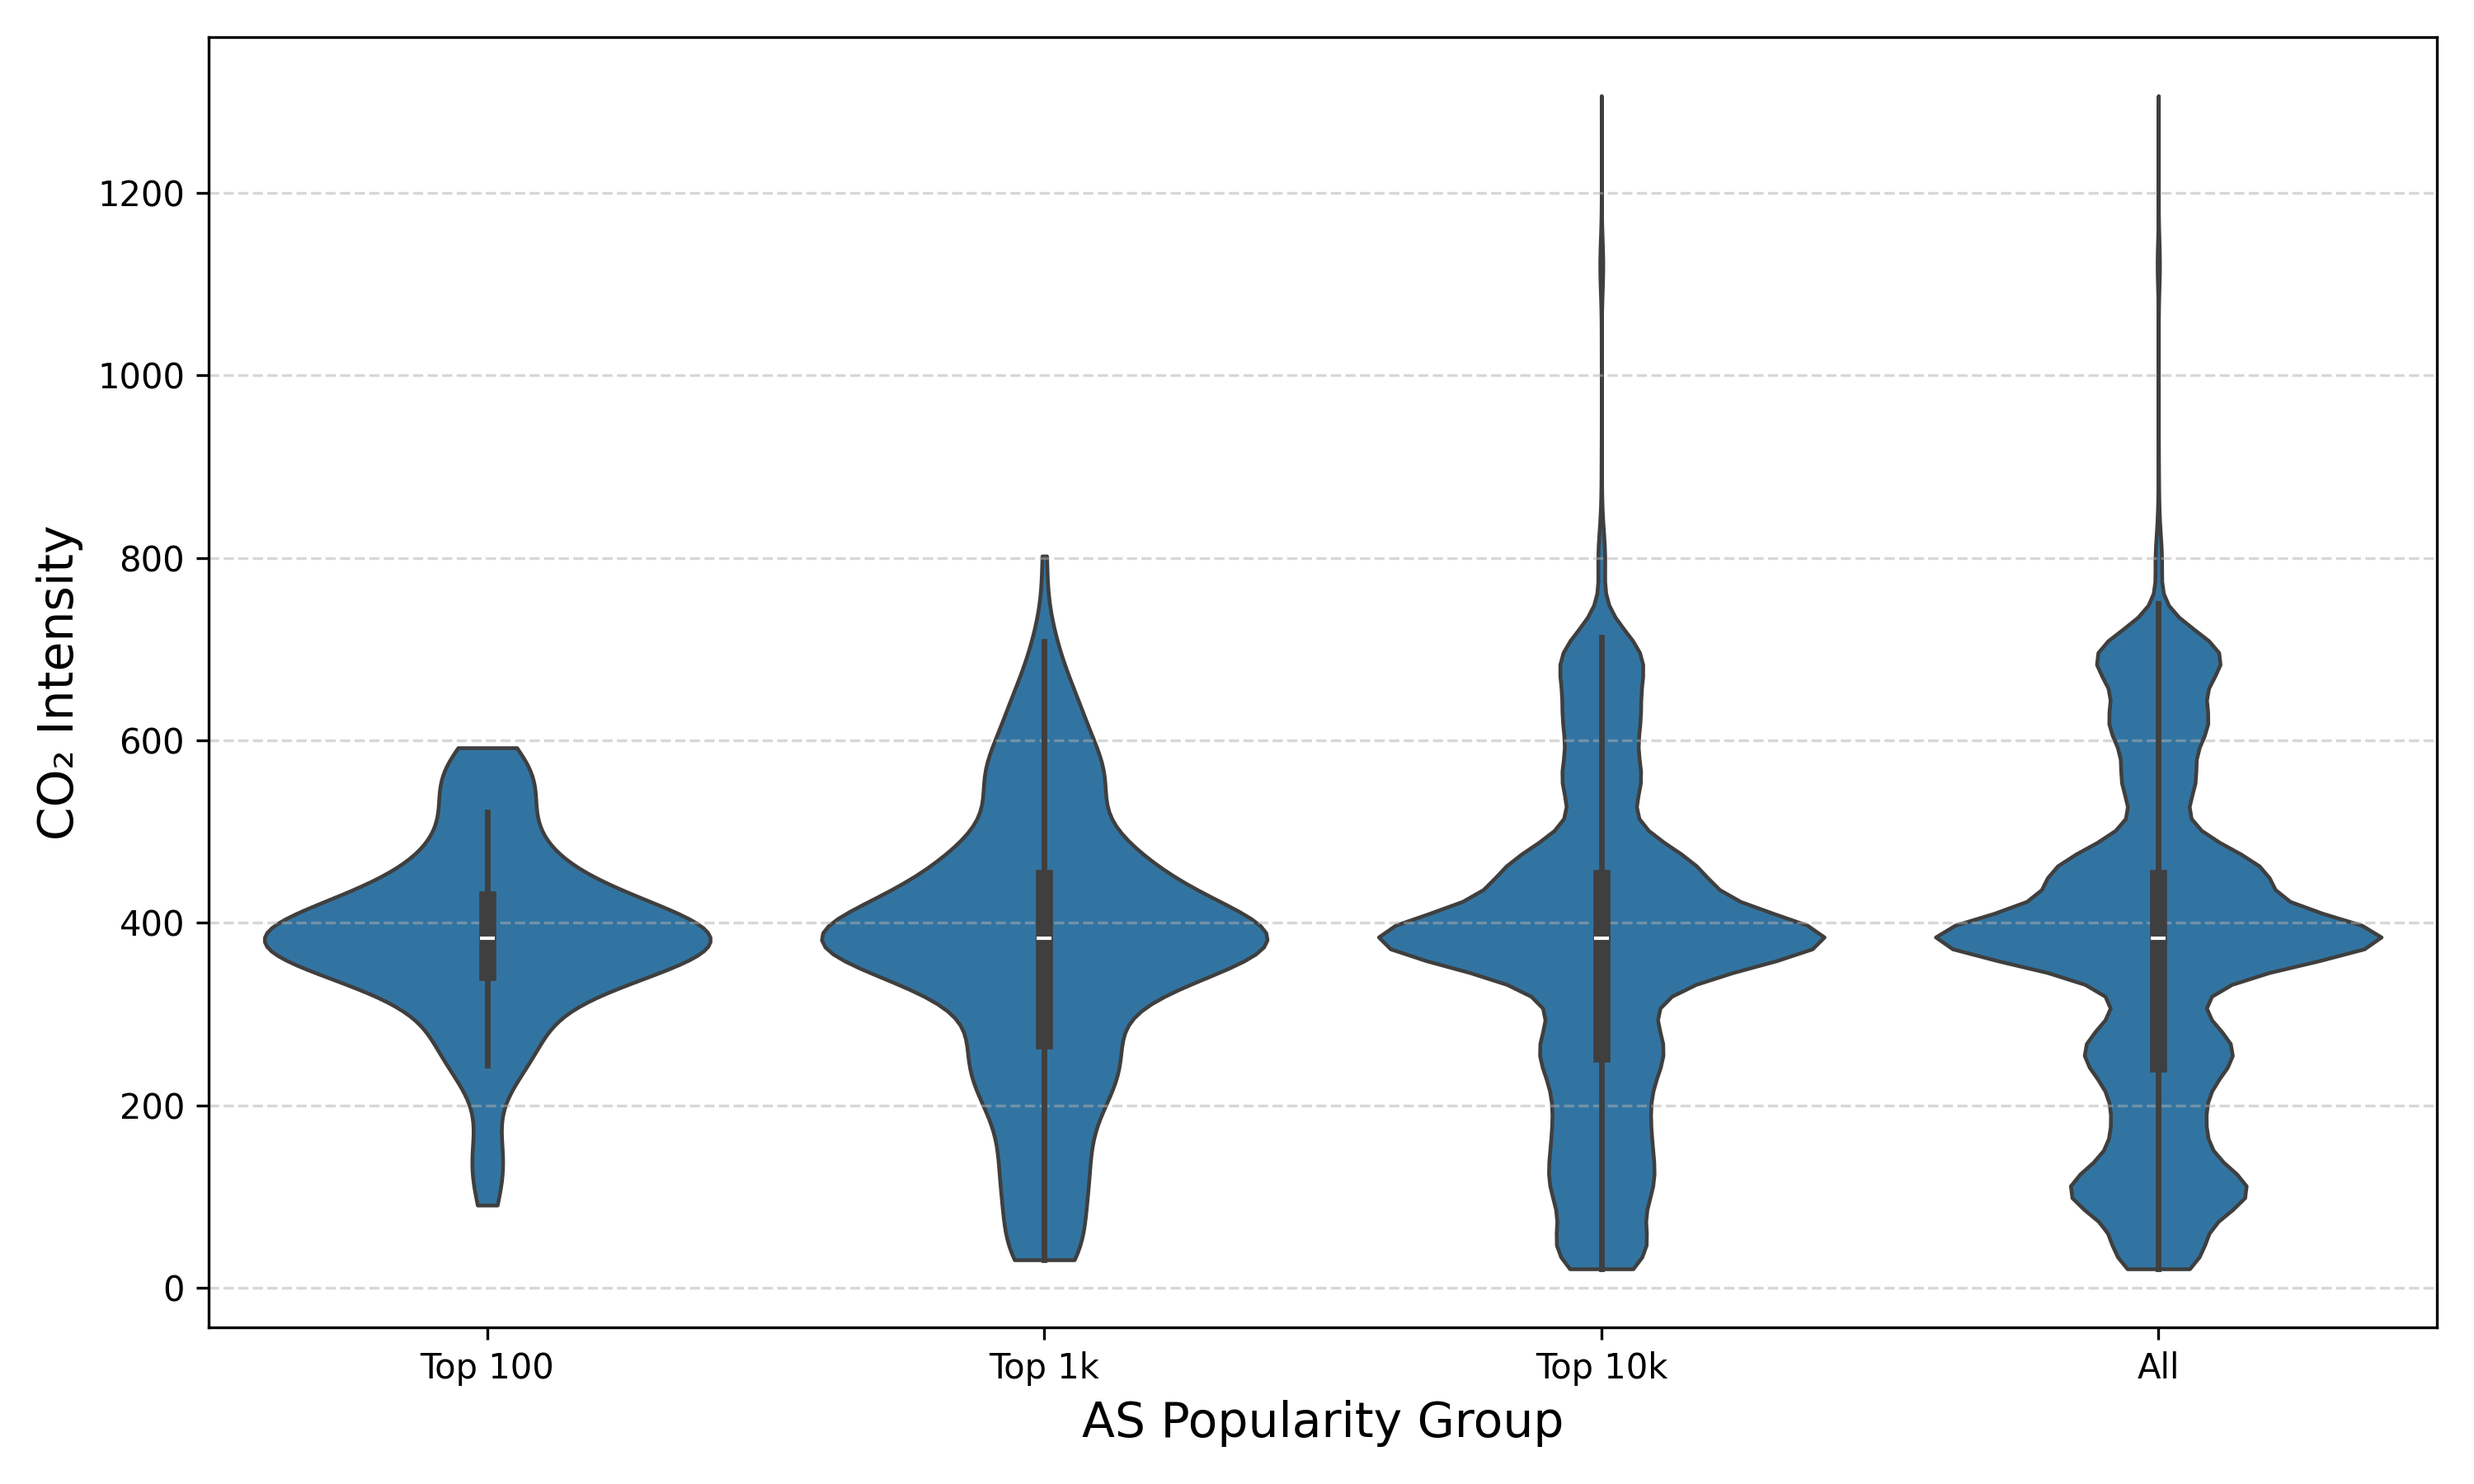
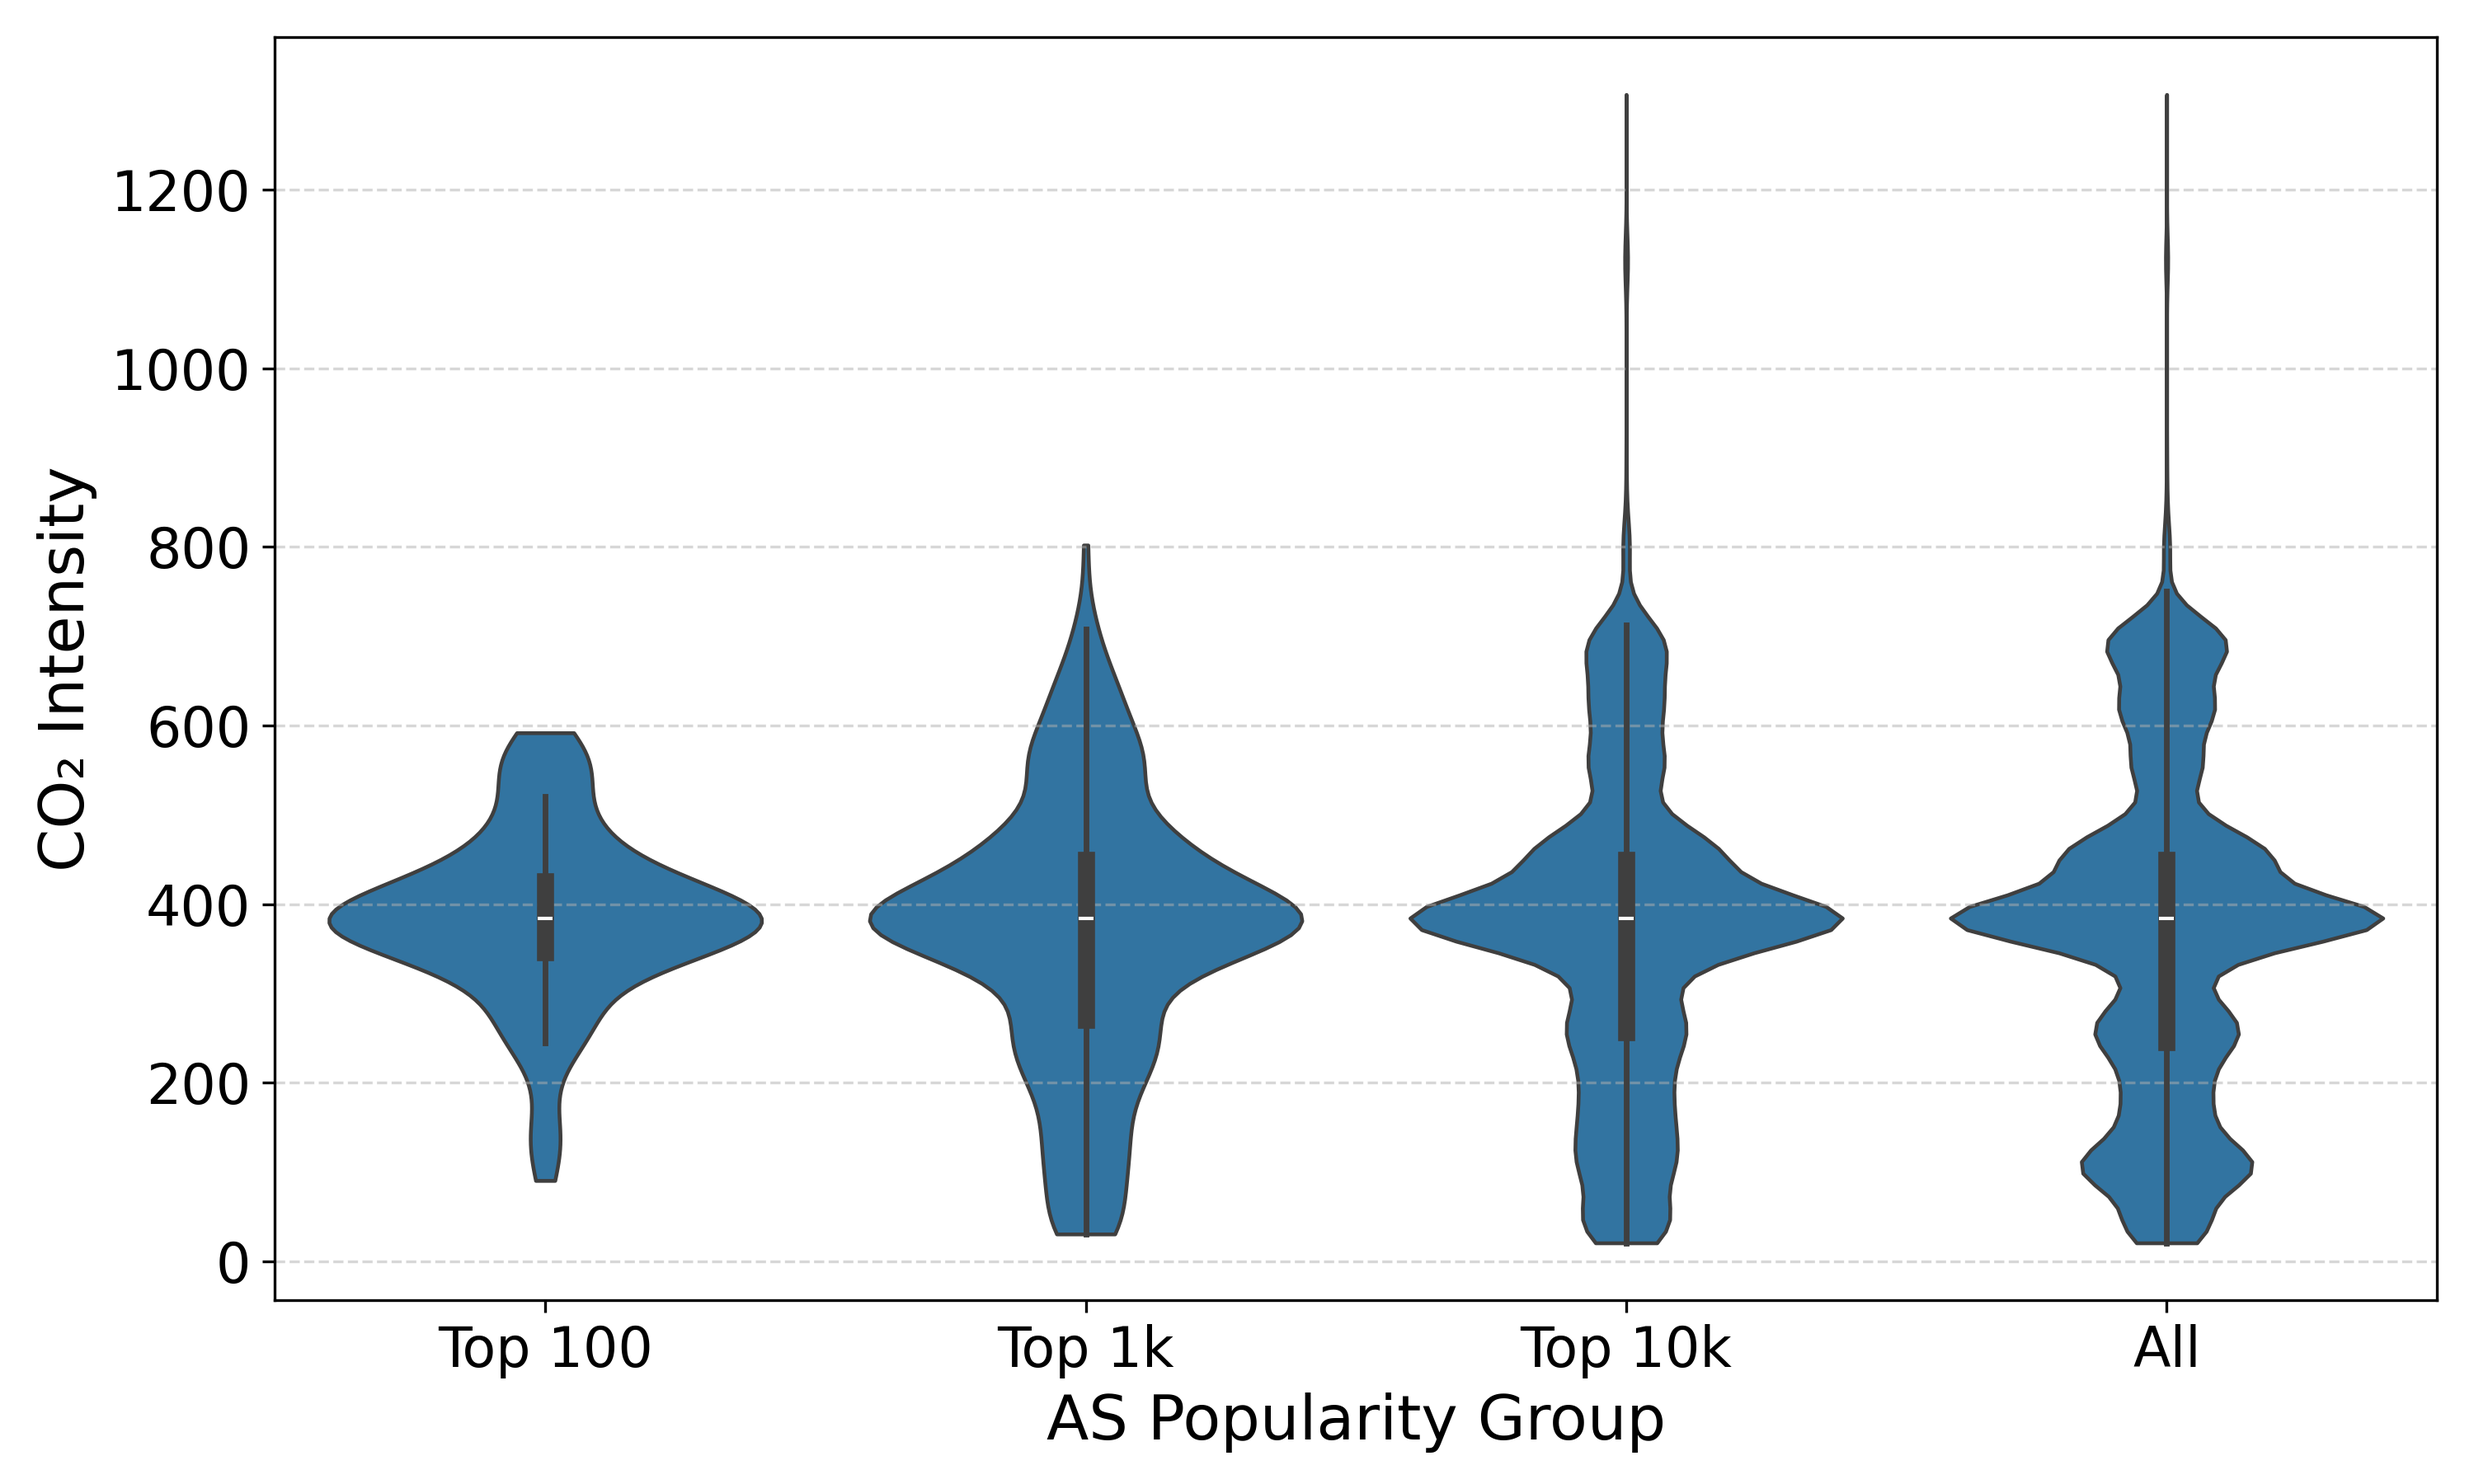
Minor changes

diff --git a/analysis/cc_co2.py b/analysis/cc_co2.py
@@ -45,9 +45,10 @@ def plot_total_cone_co2_vs_size(as2cone, as2co2, include_self=False, log_scale=F
     # Fit linear regression in log-log space
     m, b = np.polyfit(log_x, log_y, 1)
     plt.plot(x, 10**(m * log_x + b), color='red', linewidth=2, label=f"Trend: y ∝ x^{m:.2f}")
-    plt.xlabel("Customer Cone Size", fontsize=14)
-    plt.ylabel("Total CO₂ Intensity in Cone (kg CO₂)", fontsize=14)
-
+    plt.xlabel("Customer Cone Size", fontsize=18)
+    plt.ylabel("Total CO₂ Intensity in Cone (kg CO₂)", fontsize=18)
+    plt.xticks(fontsize=16)
+    plt.yticks(fontsize=16)
     if log_scale:
         plt.xscale('log')
         plt.yscale('log')

diff --git a/analysis/pop_co2.py b/analysis/pop_co2.py
@@ -27,8 +27,10 @@ plt.figure(figsize=(10, 6))
 sns.violinplot(x='Group', y='CO2 Intensity', data=df_pop,
                inner='box', scale='width', cut=0, linewidth=1.1)
 
-plt.xlabel("AS Popularity Group", fontsize=14)
-plt.ylabel("CO₂ Intensity", fontsize=14)
+plt.xlabel("AS Popularity Group", fontsize=18)
+plt.ylabel("CO₂ Intensity", fontsize=18)
+plt.xticks(fontsize=16)
+plt.yticks(fontsize=16)
 plt.grid(axis='y', linestyle='--', alpha=0.5)
 plt.tight_layout()
 plt.savefig("output/co2_violin_popularity_groups.png", dpi=300)
